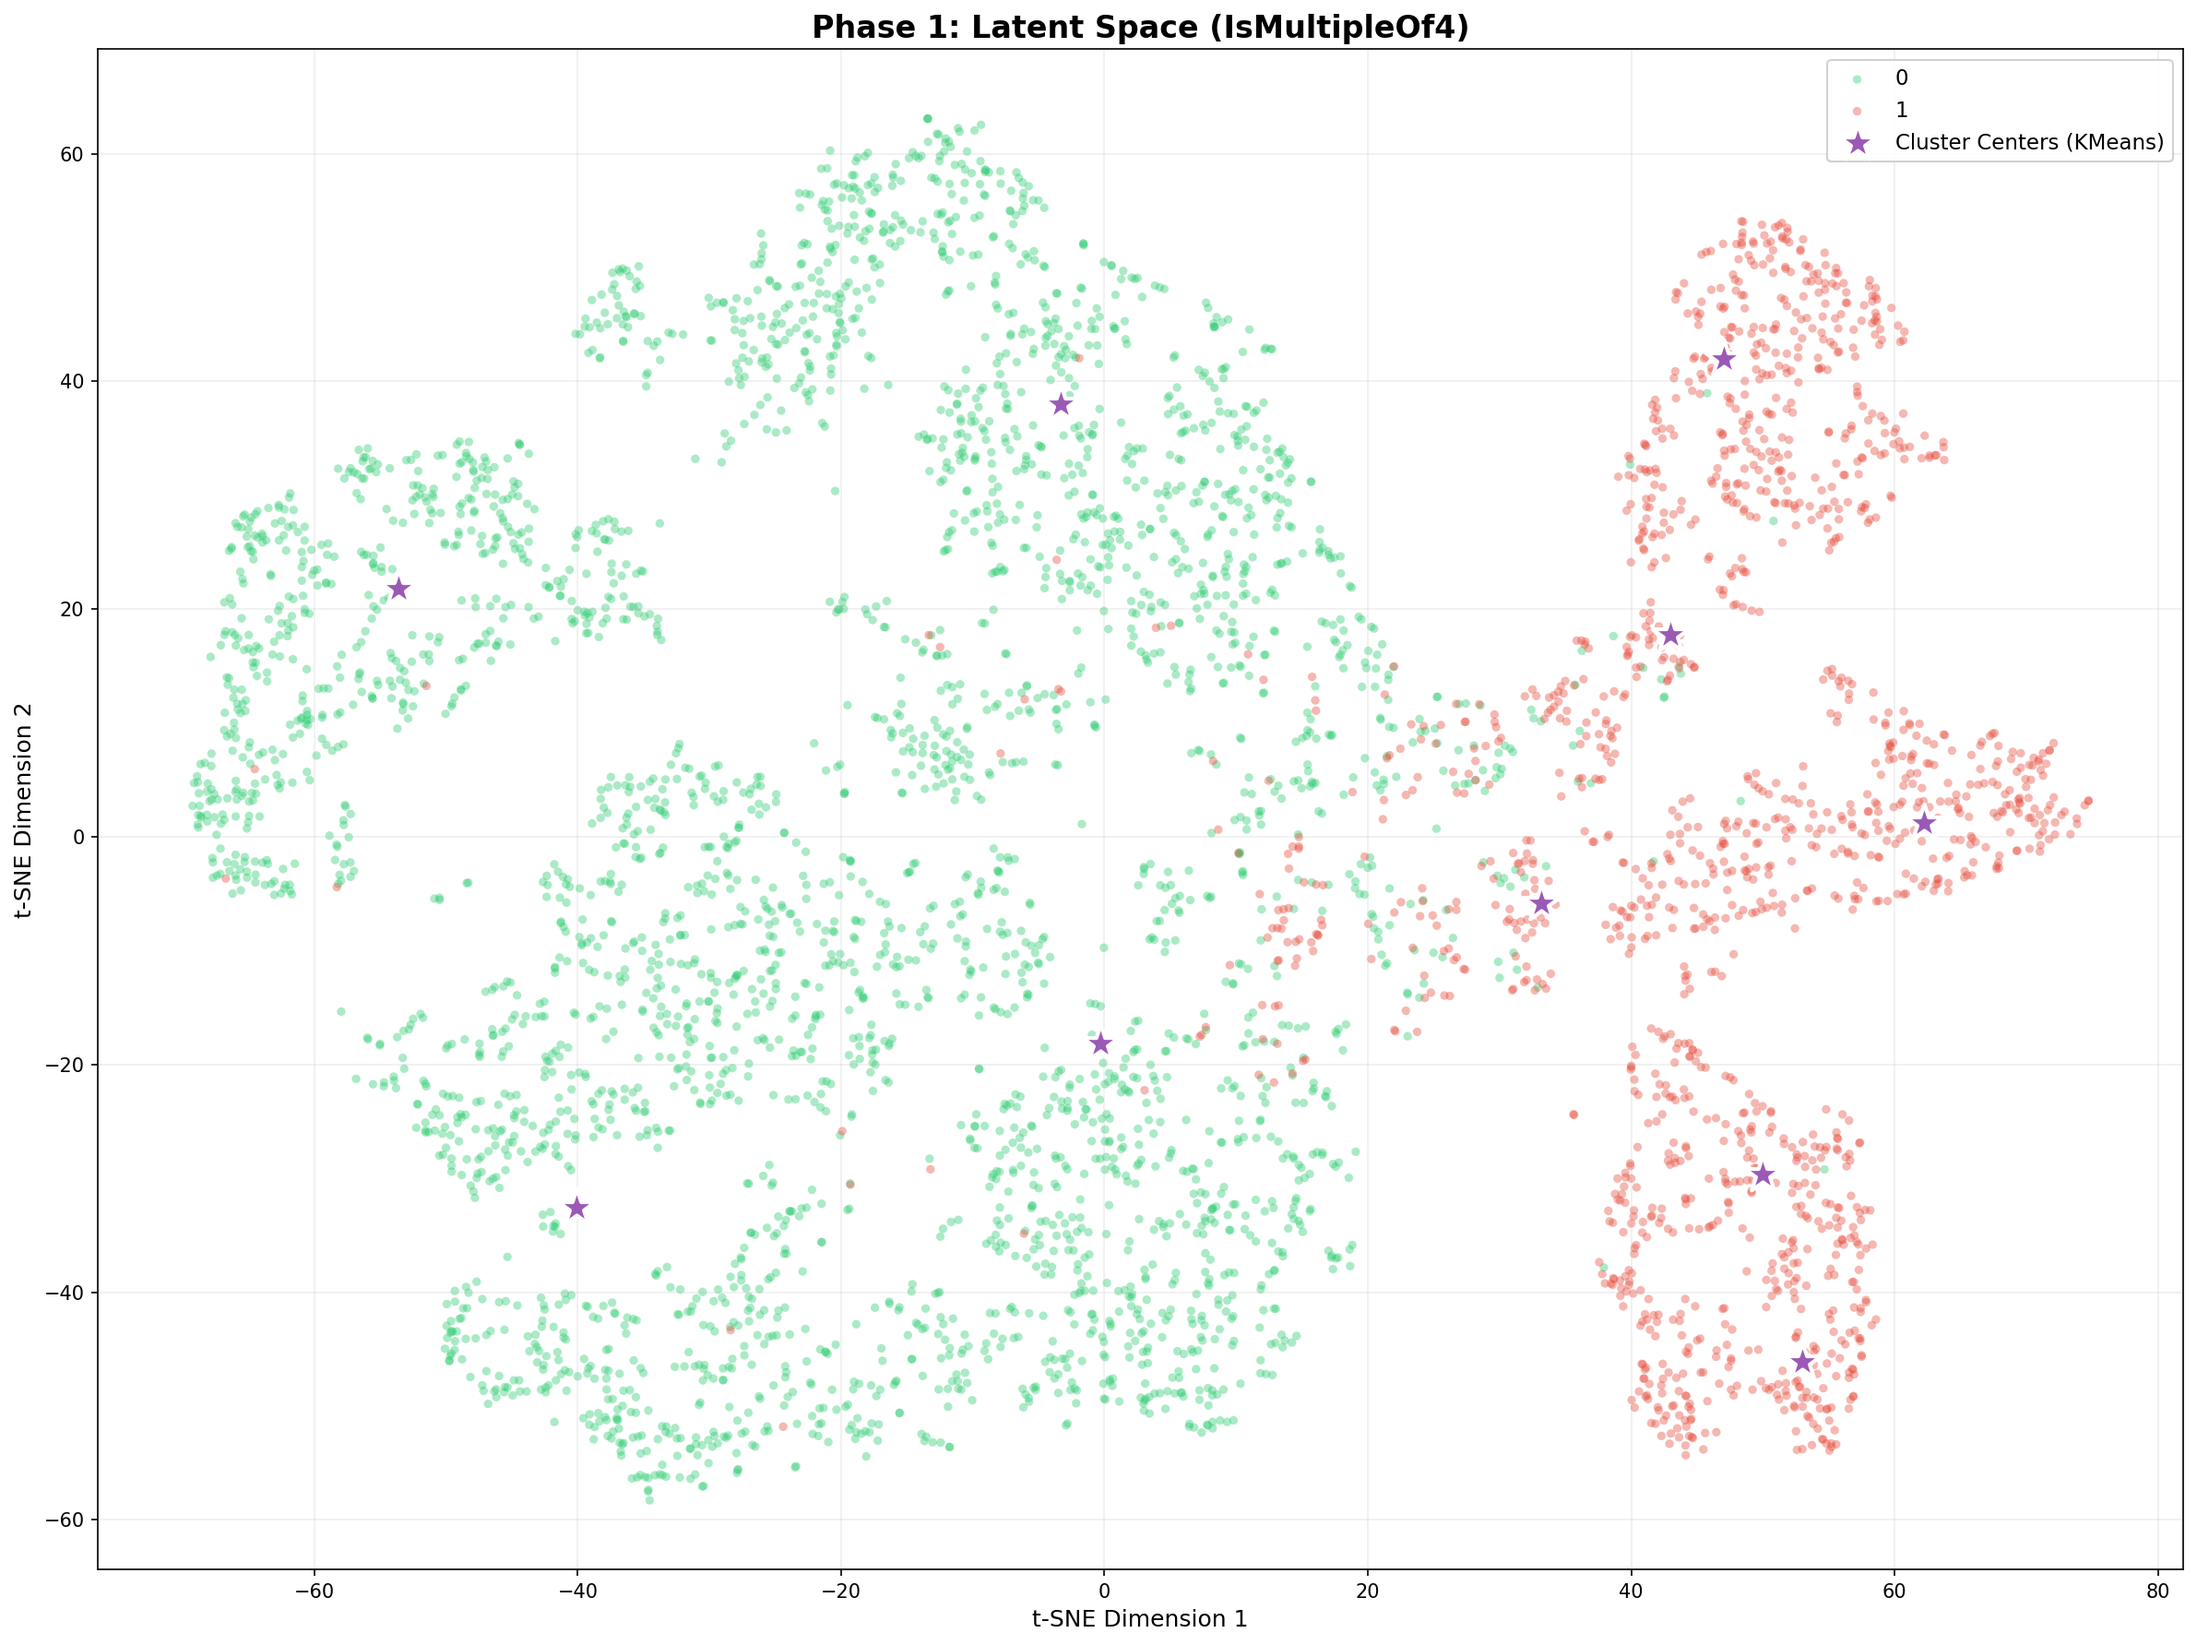
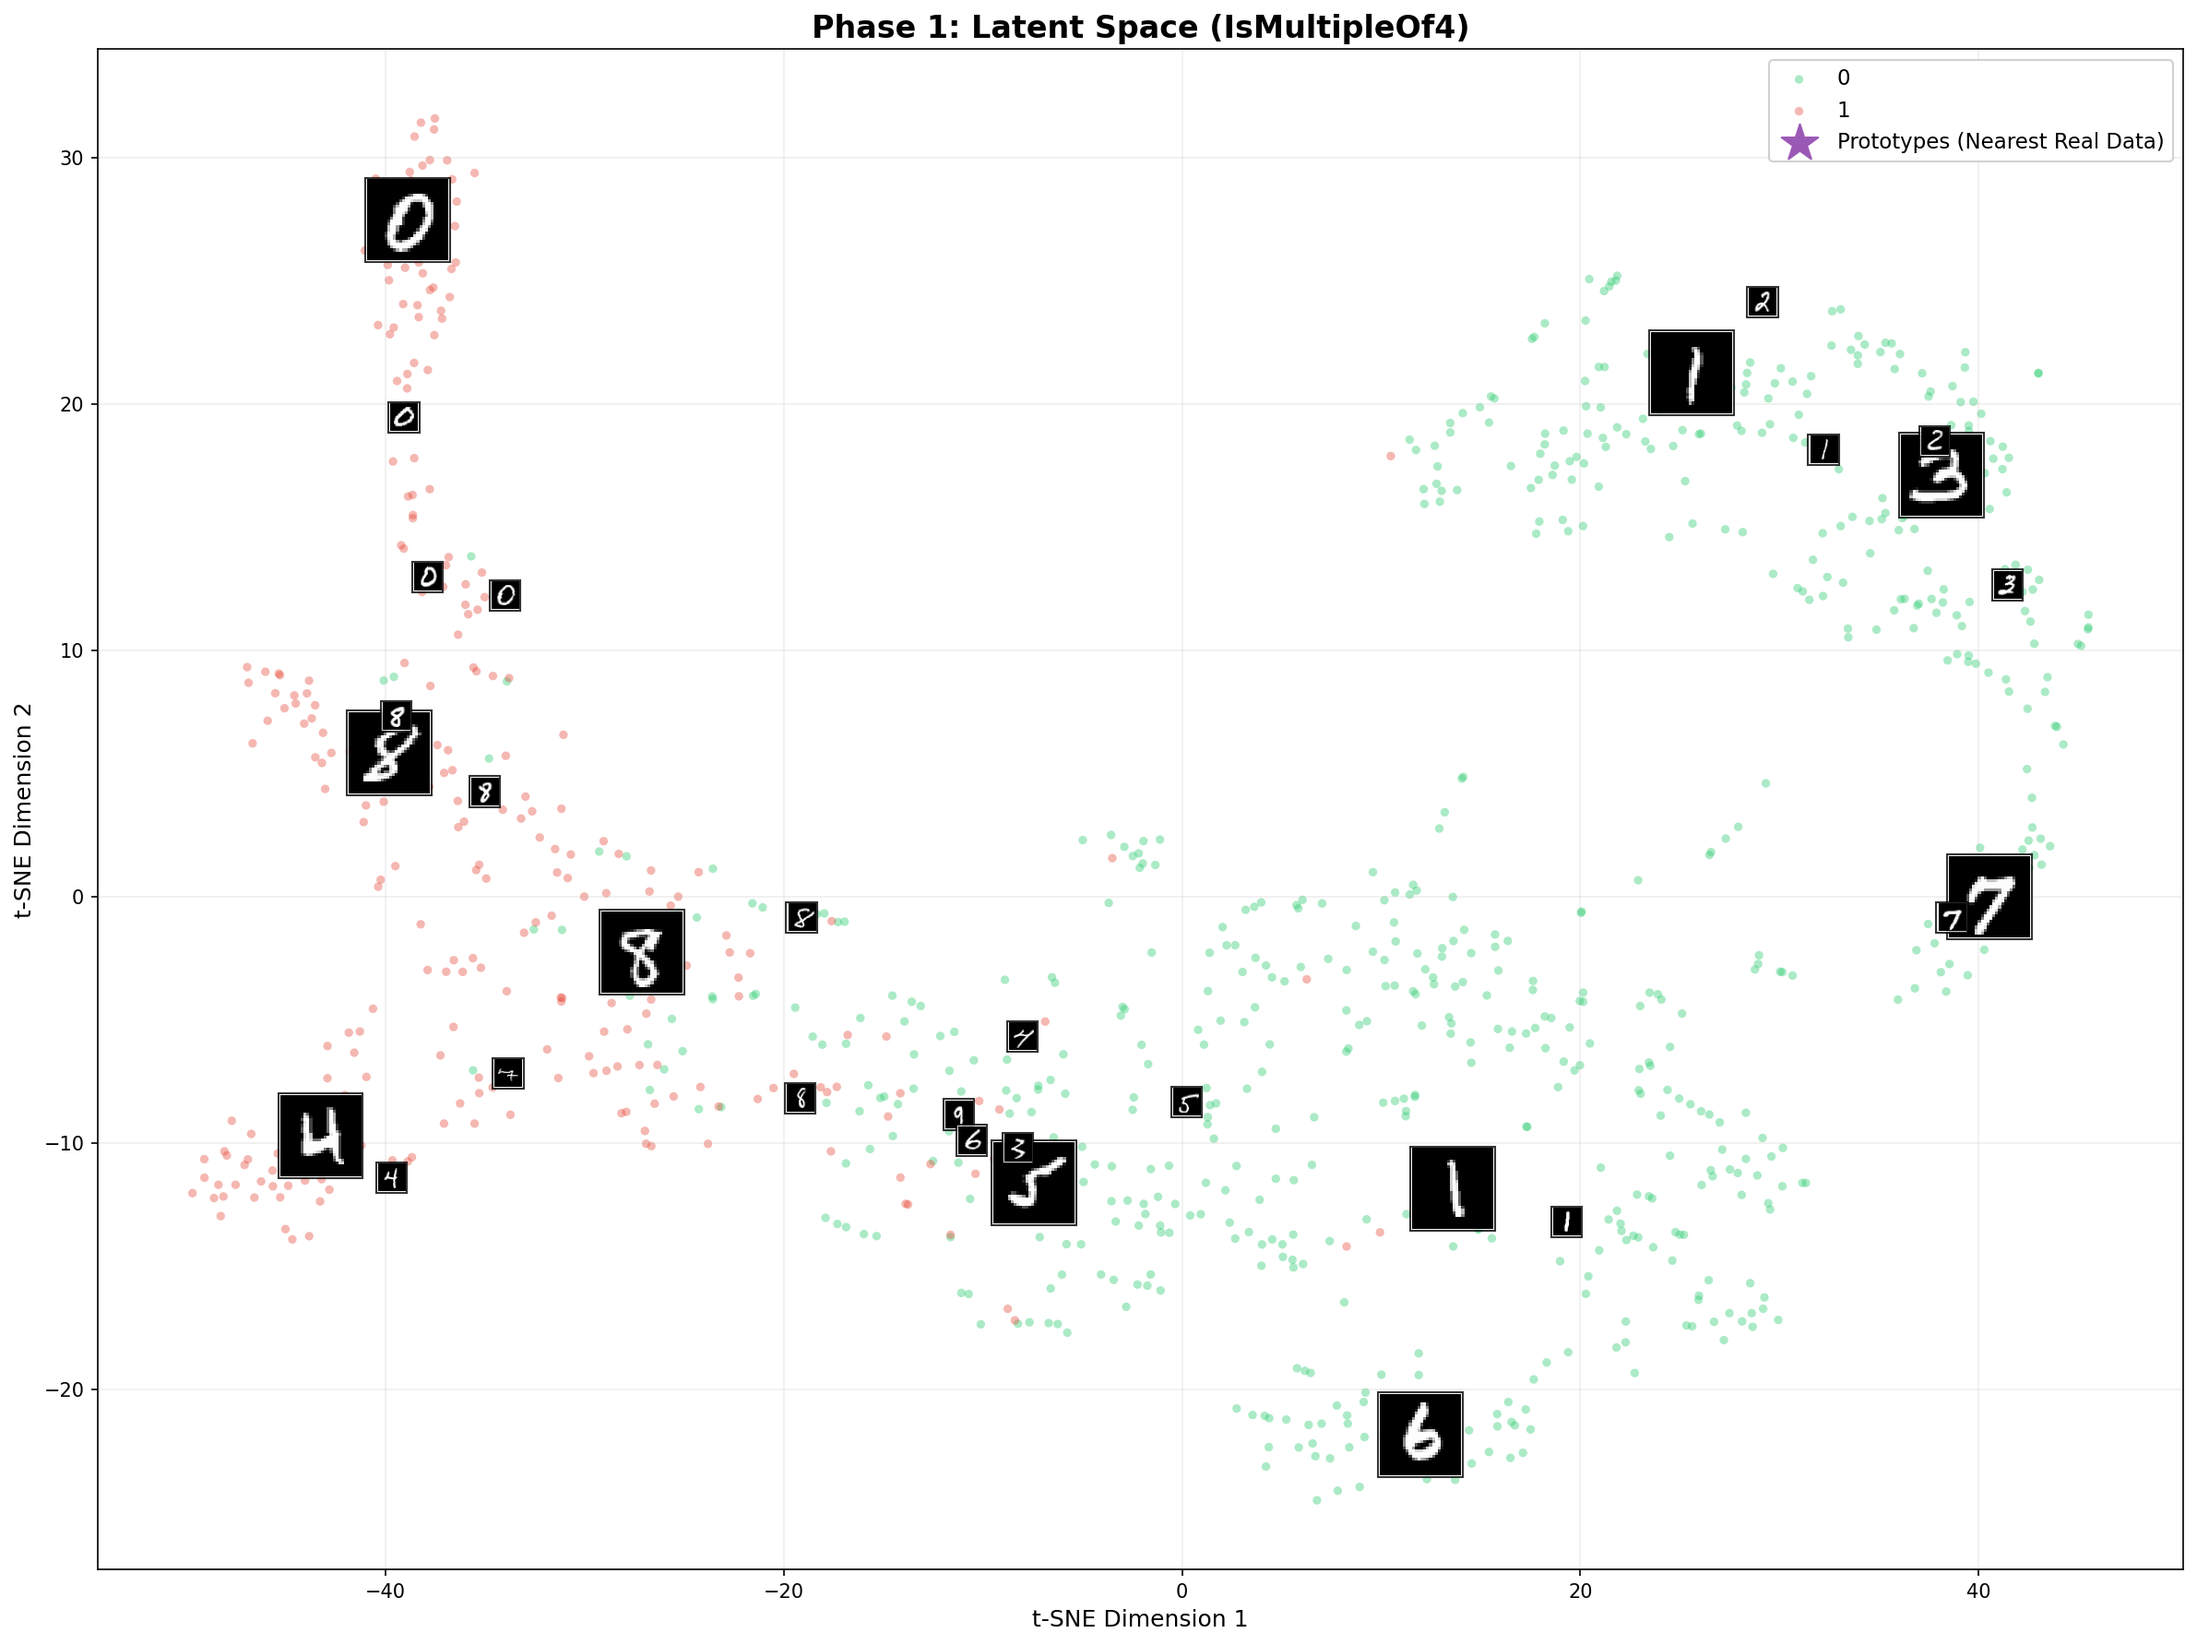
generate 변경 및 decoder 잠시 뺌

diff --git a/generate_outputs.py b/generate_outputs.py
@@ -16,6 +16,7 @@ import pickle
 from pathlib import Path
 import matplotlib
 matplotlib.use('Agg')
+import matplotlib.pyplot as plt
 
 # Add src to path
 sys.path.insert(0, str(Path(__file__).parent))
@@ -130,32 +131,117 @@ def main():
     
     # [2/3] Load training data
     print("\n[2/3] Loading training data...")
-    # This automatically downloads and preprocesses (flatten + scale)
-    (train_num, train_cat, train_target), _, _ = load_mnist_data(config)
+    from torchvision import datasets, transforms
+    
+    # Use standard transform matching preprocessor
+    transform = transforms.Compose([
+        transforms.ToTensor(),
+        transforms.Normalize((0.1307,), (0.3081,))
+    ])
+    
+    root = config.train_path or './data'
+    train_dataset = datasets.MNIST(root, train=True, download=True, transform=transform)
+    
+    # Use preprocessor only for X transformation logic (if needed) or just manual flatten
+    # The preprocessor.transform method does this:
+    # loader = DataLoader(dataset, batch_size=len(dataset), shuffle=False)
+    # data, targets = next(iter(loader))
+    # X_num = data.view(data.size(0), -1).numpy()
+    
+    loader = torch.utils.data.DataLoader(train_dataset, batch_size=len(train_dataset), shuffle=False)
+    data, targets = next(iter(loader))
+    
+    train_num = data.view(data.size(0), -1).numpy()
+    train_cat = np.zeros((len(train_dataset), 0), dtype=np.int64)
+    train_target = targets.numpy() # Original 0-9 labels!
+    
     print(f"  Loaded {len(train_num)} training samples")
+    print(f"  Target classes found: {np.unique(train_target)}")
     
     # Limit for visualization
-    limit = 1000
+    limit = 5000
     indices = np.random.choice(len(train_num), size=min(len(train_num), limit), replace=False)
     
     X_num_train = train_num[indices]
     X_cat_train = train_cat[indices]
     train_labels = train_target[indices]
     
-    # Prepare labels dictionary
-    labels_dict = {'IsMultipleOf4': train_labels}
-        
     # [3/3] Create t-SNE visualization
     print(f"\n[3/3] Creating t-SNE visualizations (Phase {phase})...")
-    create_tsne_visualization(
-        model, 
-        X_num_train, 
-        X_cat_train, 
-        labels_dict=labels_dict,
-        output_dir=args.output_dir,
-        file_prefix=f'mnist_tsne_phase{phase}',
-        n_samples=limit
+    
+    device = next(model.parameters()).device
+    model.eval()
+    
+    # Extract embeddings
+    z_list = []
+    p_list = []
+    
+    batch_size = 256
+    with torch.no_grad():
+        for i in range(0, len(X_num_train), batch_size):
+            b_num = torch.tensor(X_num_train[i:i+batch_size], dtype=torch.float32).to(device)
+            b_cat = torch.tensor(X_cat_train[i:i+batch_size], dtype=torch.long).to(device)
+            
+            outputs = model(b_num, b_cat, return_all=True)
+            z_list.append(outputs['z'].cpu().numpy())
+            
+            if 'p_space' in outputs:
+                p_list.append(outputs['p_space'].cpu().numpy())
+            elif phase == 2:
+                # If model is in phase 2 but p_space not returned (should be there if return_all=True)
+                pass
+
+    z_all = np.concatenate(z_list, axis=0)
+    
+    # Helper for plotting
+    def plot_simple_tsne(data, labels, path, title):
+        print(f"  Computing t-SNE for {title}...")
+        from sklearn.manifold import TSNE
+        tsne = TSNE(n_components=2, perplexity=30, random_state=42, init='pca', learning_rate='auto')
+        emb = tsne.fit_transform(data)
+        
+        print(f"  Plotting to {path}...")
+        plt.figure(figsize=(10, 8))
+        
+        # Use tab10 colormap which has 10 distinct colors
+        cmap = plt.get_cmap('tab10')
+        
+        # Plot each class separately to create a proper legend
+        unique_labels = sorted(np.unique(labels))
+        for lbl in unique_labels:
+            mask = labels == lbl
+            plt.scatter(
+                emb[mask, 0], emb[mask, 1],
+                color=cmap(lbl),  # discrete access for tab10 (0-9)
+                label=f"Digit {lbl}",
+                alpha=0.7, 
+                s=20, 
+                edgecolors='none'
+            )
+            
+        plt.title(title, fontsize=15)
+        plt.legend(bbox_to_anchor=(1.05, 1), loc='upper left', title="Digit Class")
+        plt.tight_layout()
+        plt.savefig(path, dpi=150)
+        plt.close()
+
+    # Plot Z-Space
+    plot_simple_tsne(
+        z_all, 
+        train_labels, 
+        os.path.join(args.output_dir, f'mnist_tsne_phase{phase}_z_class.png'), 
+        f'Phase {phase} Z-Space (Digits)'
     )
+    
+    # Plot P-Space if available
+    if p_list:
+        p_all = np.concatenate(p_list, axis=0)
+        plot_simple_tsne(
+            p_all,
+            train_labels,
+            os.path.join(args.output_dir, f'mnist_tsne_phase{phase}_pspace_class.png'),
+            f'Phase {phase} P-Space (Digits)'
+        )
     
     print("\n" + "=" * 60)
     print("COMPLETE!")

diff --git a/src/utils/visualization.py b/src/utils/visualization.py
@@ -209,24 +209,53 @@ def create_tsne_visualization(
         from sklearn.cluster import KMeans
         kmeans = KMeans(n_clusters=model.n_global_prototypes, random_state=random_state, n_init='auto')
         kmeans.fit(z)
-        prototypes = kmeans.cluster_centers_
+        centers = kmeans.cluster_centers_
+        
+        # FIND NEAREST NEIGHBORS (Real Data) for each center
+        print("  Finding nearest actual data points to cluster centers...")
+        from sklearn.metrics import pairwise_distances_argmin_min
+        closest_indices, _ = pairwise_distances_argmin_min(centers, z)
+        
+        # Use the actual data points as prototypes
+        prototypes = z[closest_indices]
+        
+        # Get the actual images for these 'prototypes'
+        proto_num = sampled_num[closest_indices]
+        # Invert normalization
+        proto_imgs = (proto_num * 0.3081 + 0.1307).reshape(-1, 28, 28)
+        proto_imgs = np.clip(proto_imgs, 0, 1)
         
         # 1. Compute Embeddings ONCE
         print(f"  Computing t-SNE embeddings for Phase 1 Z-Space...")
         data_emb, proto_emb = _compute_tsne_embeddings(z, prototypes, perplexity, random_state)
         
+        # Prepare random sample overlay (same as before)
+        print("  Prepared samples for visualization...")
+        # Randomly select some data samples to overlay
+        n_overlay = 20
+        # Exclude the prototype indices to avoid duplicates if possible, usually fine though
+        idx_overlay = np.random.choice(len(data_emb), min(n_overlay, len(data_emb)), replace=False)
+        sample_embeddings = data_emb[idx_overlay]
+        
+        # Get their images
+        sample_num = sampled_num[idx_overlay]
+        sample_imgs = (sample_num * 0.3081 + 0.1307).reshape(-1, 28, 28)
+        sample_imgs = np.clip(sample_imgs, 0, 1)
+
         # 2. Plot for each label set
         for label_name, labels in sampled_labels_dict.items():
             fname = f"{file_prefix}_{label_name.lower()}.png"
             full_path = f"{output_dir}/{fname}"
-            # Clean up double slashes
             full_path = full_path.replace('//', '/')
             
             _plot_tsne_embeddings(
                 data_emb, proto_emb, labels,
                 output_path=full_path,
                 title=f'Phase 1: Latent Space ({label_name})',
-                proto_label='Cluster Centers (KMeans)'
+                proto_label='Prototypes (Nearest Real Data)',
+                proto_images=proto_imgs, # Real images!
+                sample_images=sample_imgs,
+                sample_embeddings=sample_embeddings
             )
         return
 

diff --git a/src/training/losses.py b/src/training/losses.py
@@ -74,18 +74,23 @@ class PrototypeLoss(nn.Module):
             loss_cls = self.bce_loss(outputs['logits'], targets.float())
         
         # 2. Reconstruction loss
-        loss_recon_num = self.mse_loss(outputs['num_recon'], x_num)
-        
-        loss_recon_cat = torch.tensor(0.0, device=x_num.device)
-        for i, cat_logits in enumerate(outputs['cat_recons']):
-            n_classes = cat_logits.shape[1]
-            target_i = x_cat[:, i].clamp(0, n_classes - 1)
-            loss_recon_cat = loss_recon_cat + self.ce_loss(cat_logits, target_i)
-        if len(outputs['cat_recons']) > 0:
-            loss_recon_cat = loss_recon_cat / len(outputs['cat_recons'])
-        
-        loss_recon = self.num_weight * loss_recon_num + self.cat_weight * loss_recon_cat
-        
+        if self.lambda_reconstruction > 0:
+            loss_recon_num = self.mse_loss(outputs['num_recon'], x_num)
+            
+            loss_recon_cat = torch.tensor(0.0, device=x_num.device)
+            for i, cat_logits in enumerate(outputs['cat_recons']):
+                n_classes = cat_logits.shape[1]
+                target_i = x_cat[:, i].clamp(0, n_classes - 1)
+                loss_recon_cat = loss_recon_cat + self.ce_loss(cat_logits, target_i)
+            if len(outputs['cat_recons']) > 0:
+                loss_recon_cat = loss_recon_cat / len(outputs['cat_recons'])
+            
+            loss_recon = self.num_weight * loss_recon_num + self.cat_weight * loss_recon_cat
+        else:
+            loss_recon = torch.tensor(0.0, device=x_num.device)
+            loss_recon_num = torch.tensor(0.0, device=x_num.device)
+            loss_recon_cat = torch.tensor(0.0, device=x_num.device)
+
         # Total loss (simplified per PTaRL paper)
         total_loss = loss_cls + self.lambda_reconstruction * loss_recon
         

diff --git a/src/config.py b/src/config.py
@@ -55,7 +55,7 @@ class ModelConfig:
     early_stopping_patience: int = 5
     
     # Loss weights
-    lambda_reconstruction: float = 0.5  # Higher weight for reconstruction on images
+    lambda_reconstruction: float = 0.0  # Higher weight for reconstruction on images
     lambda_diversity: float = 0.1
     lambda_clustering: float = 0.1
     
